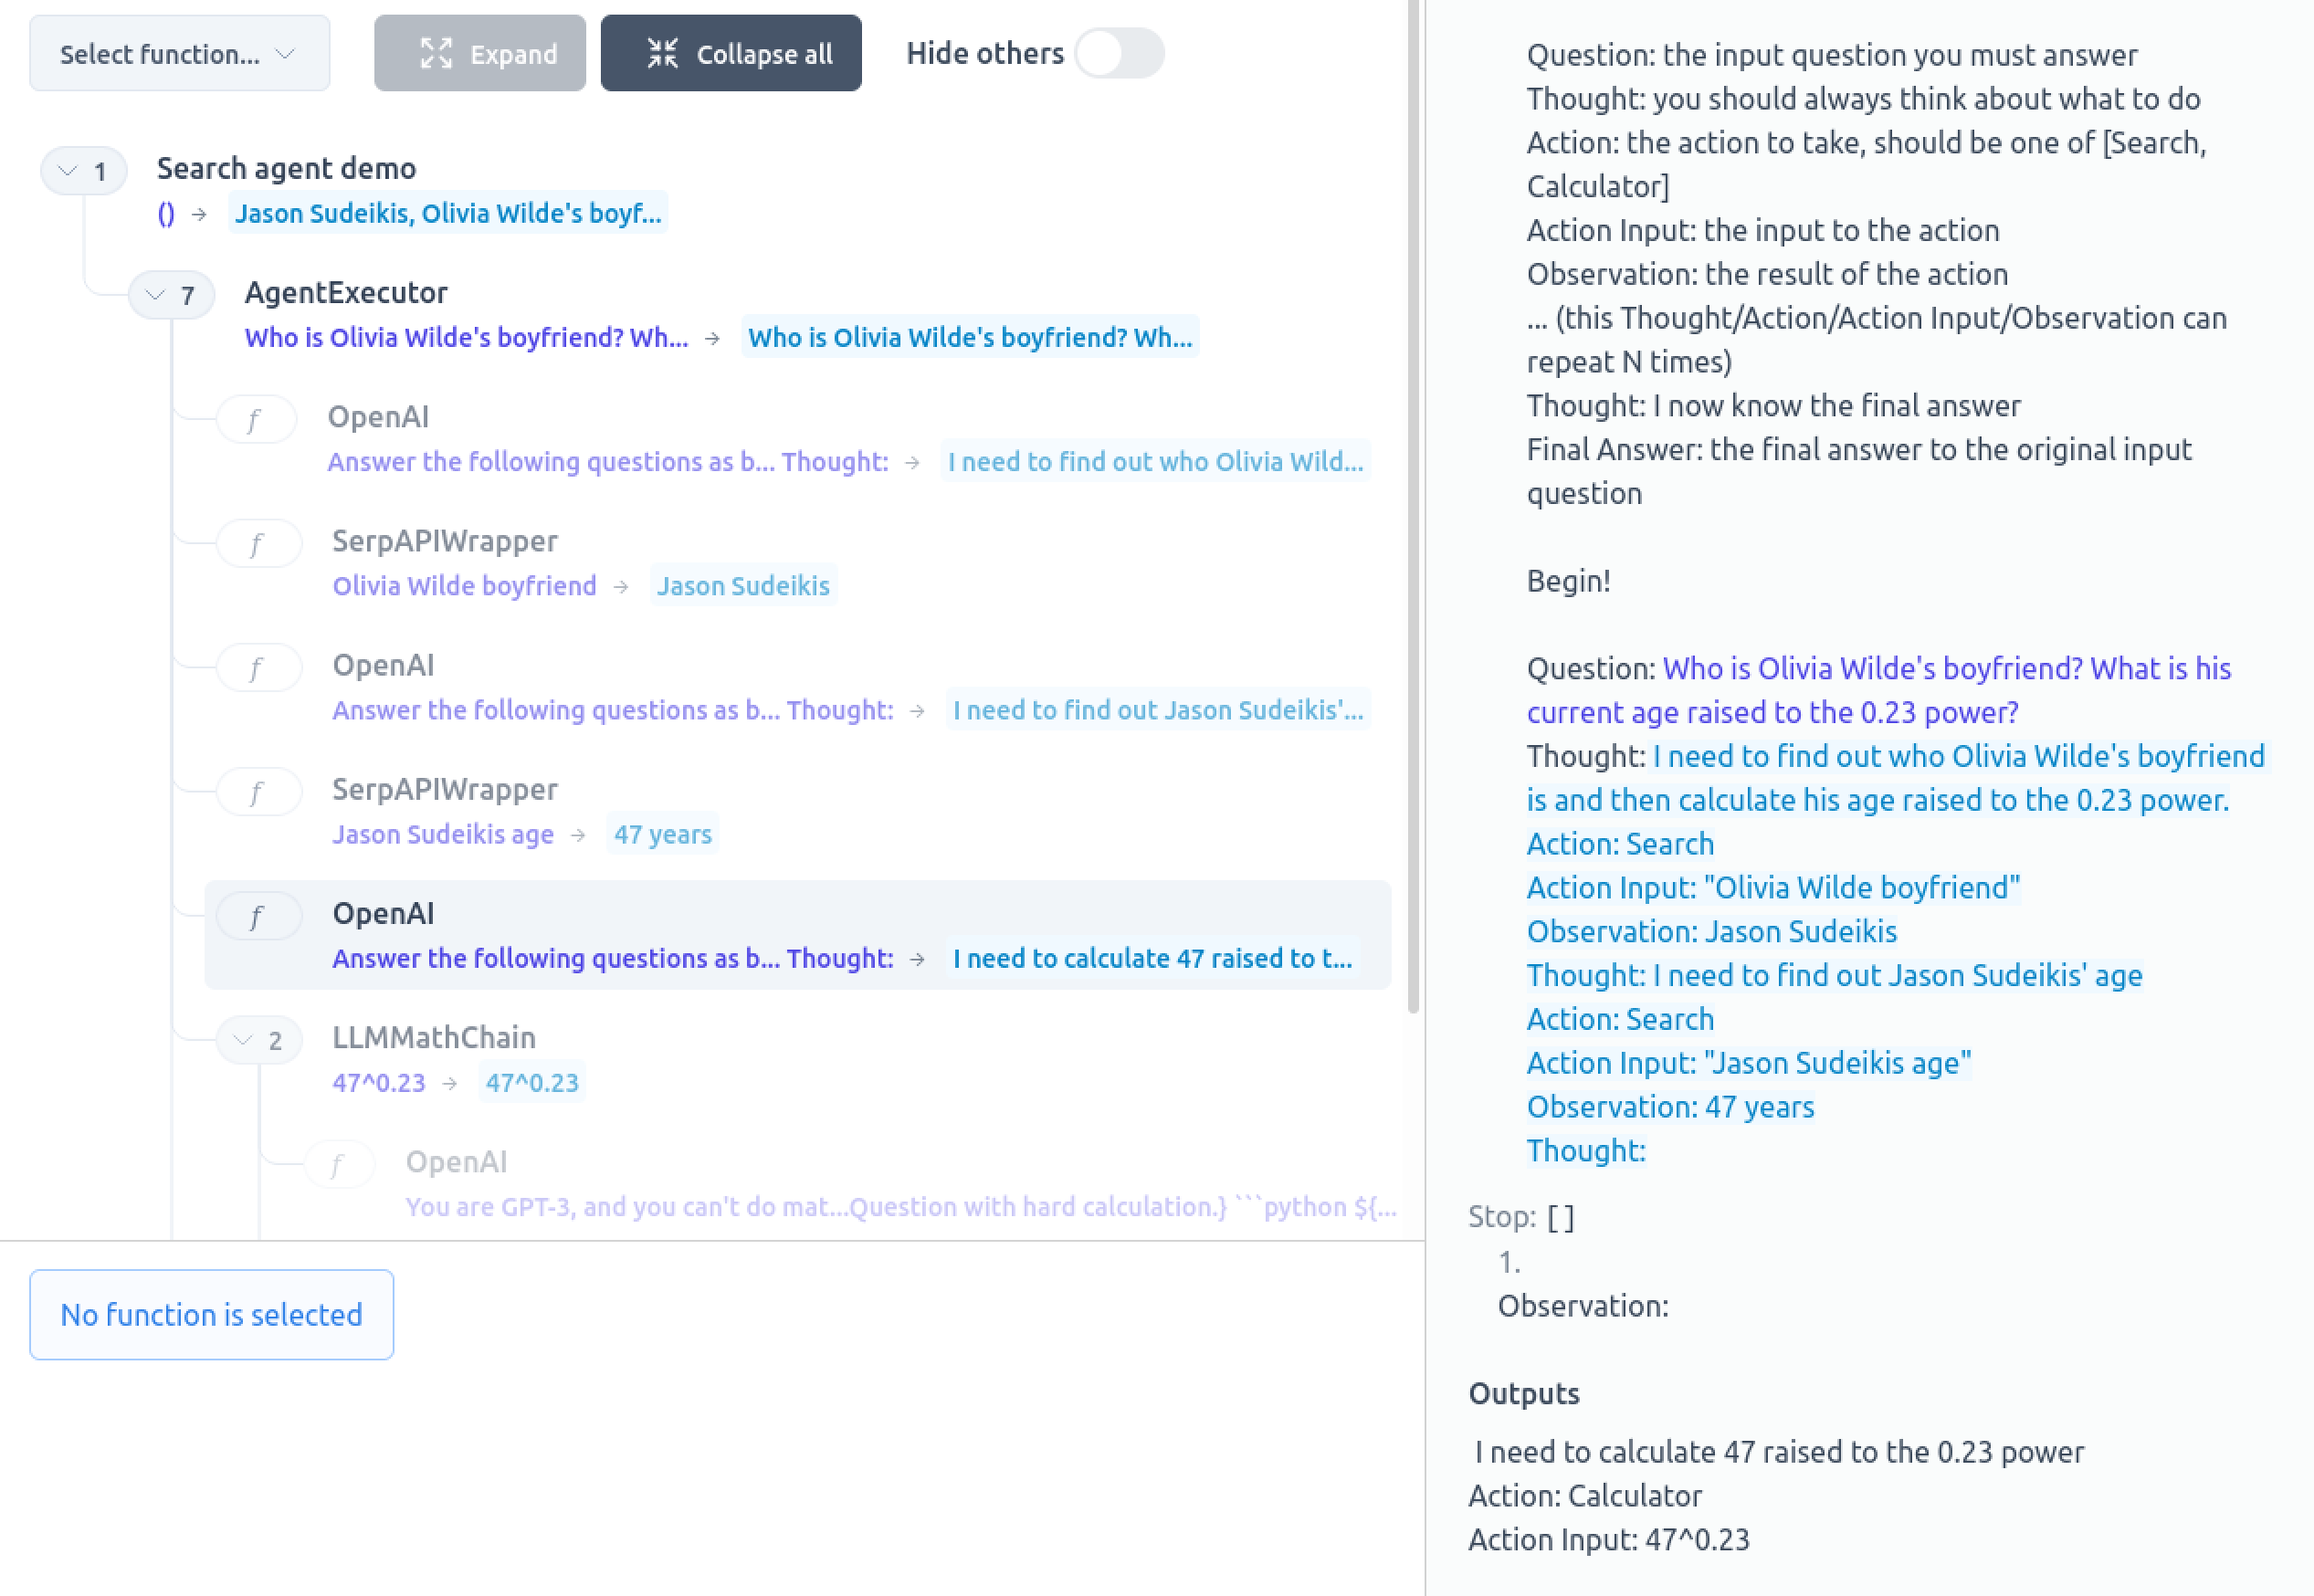
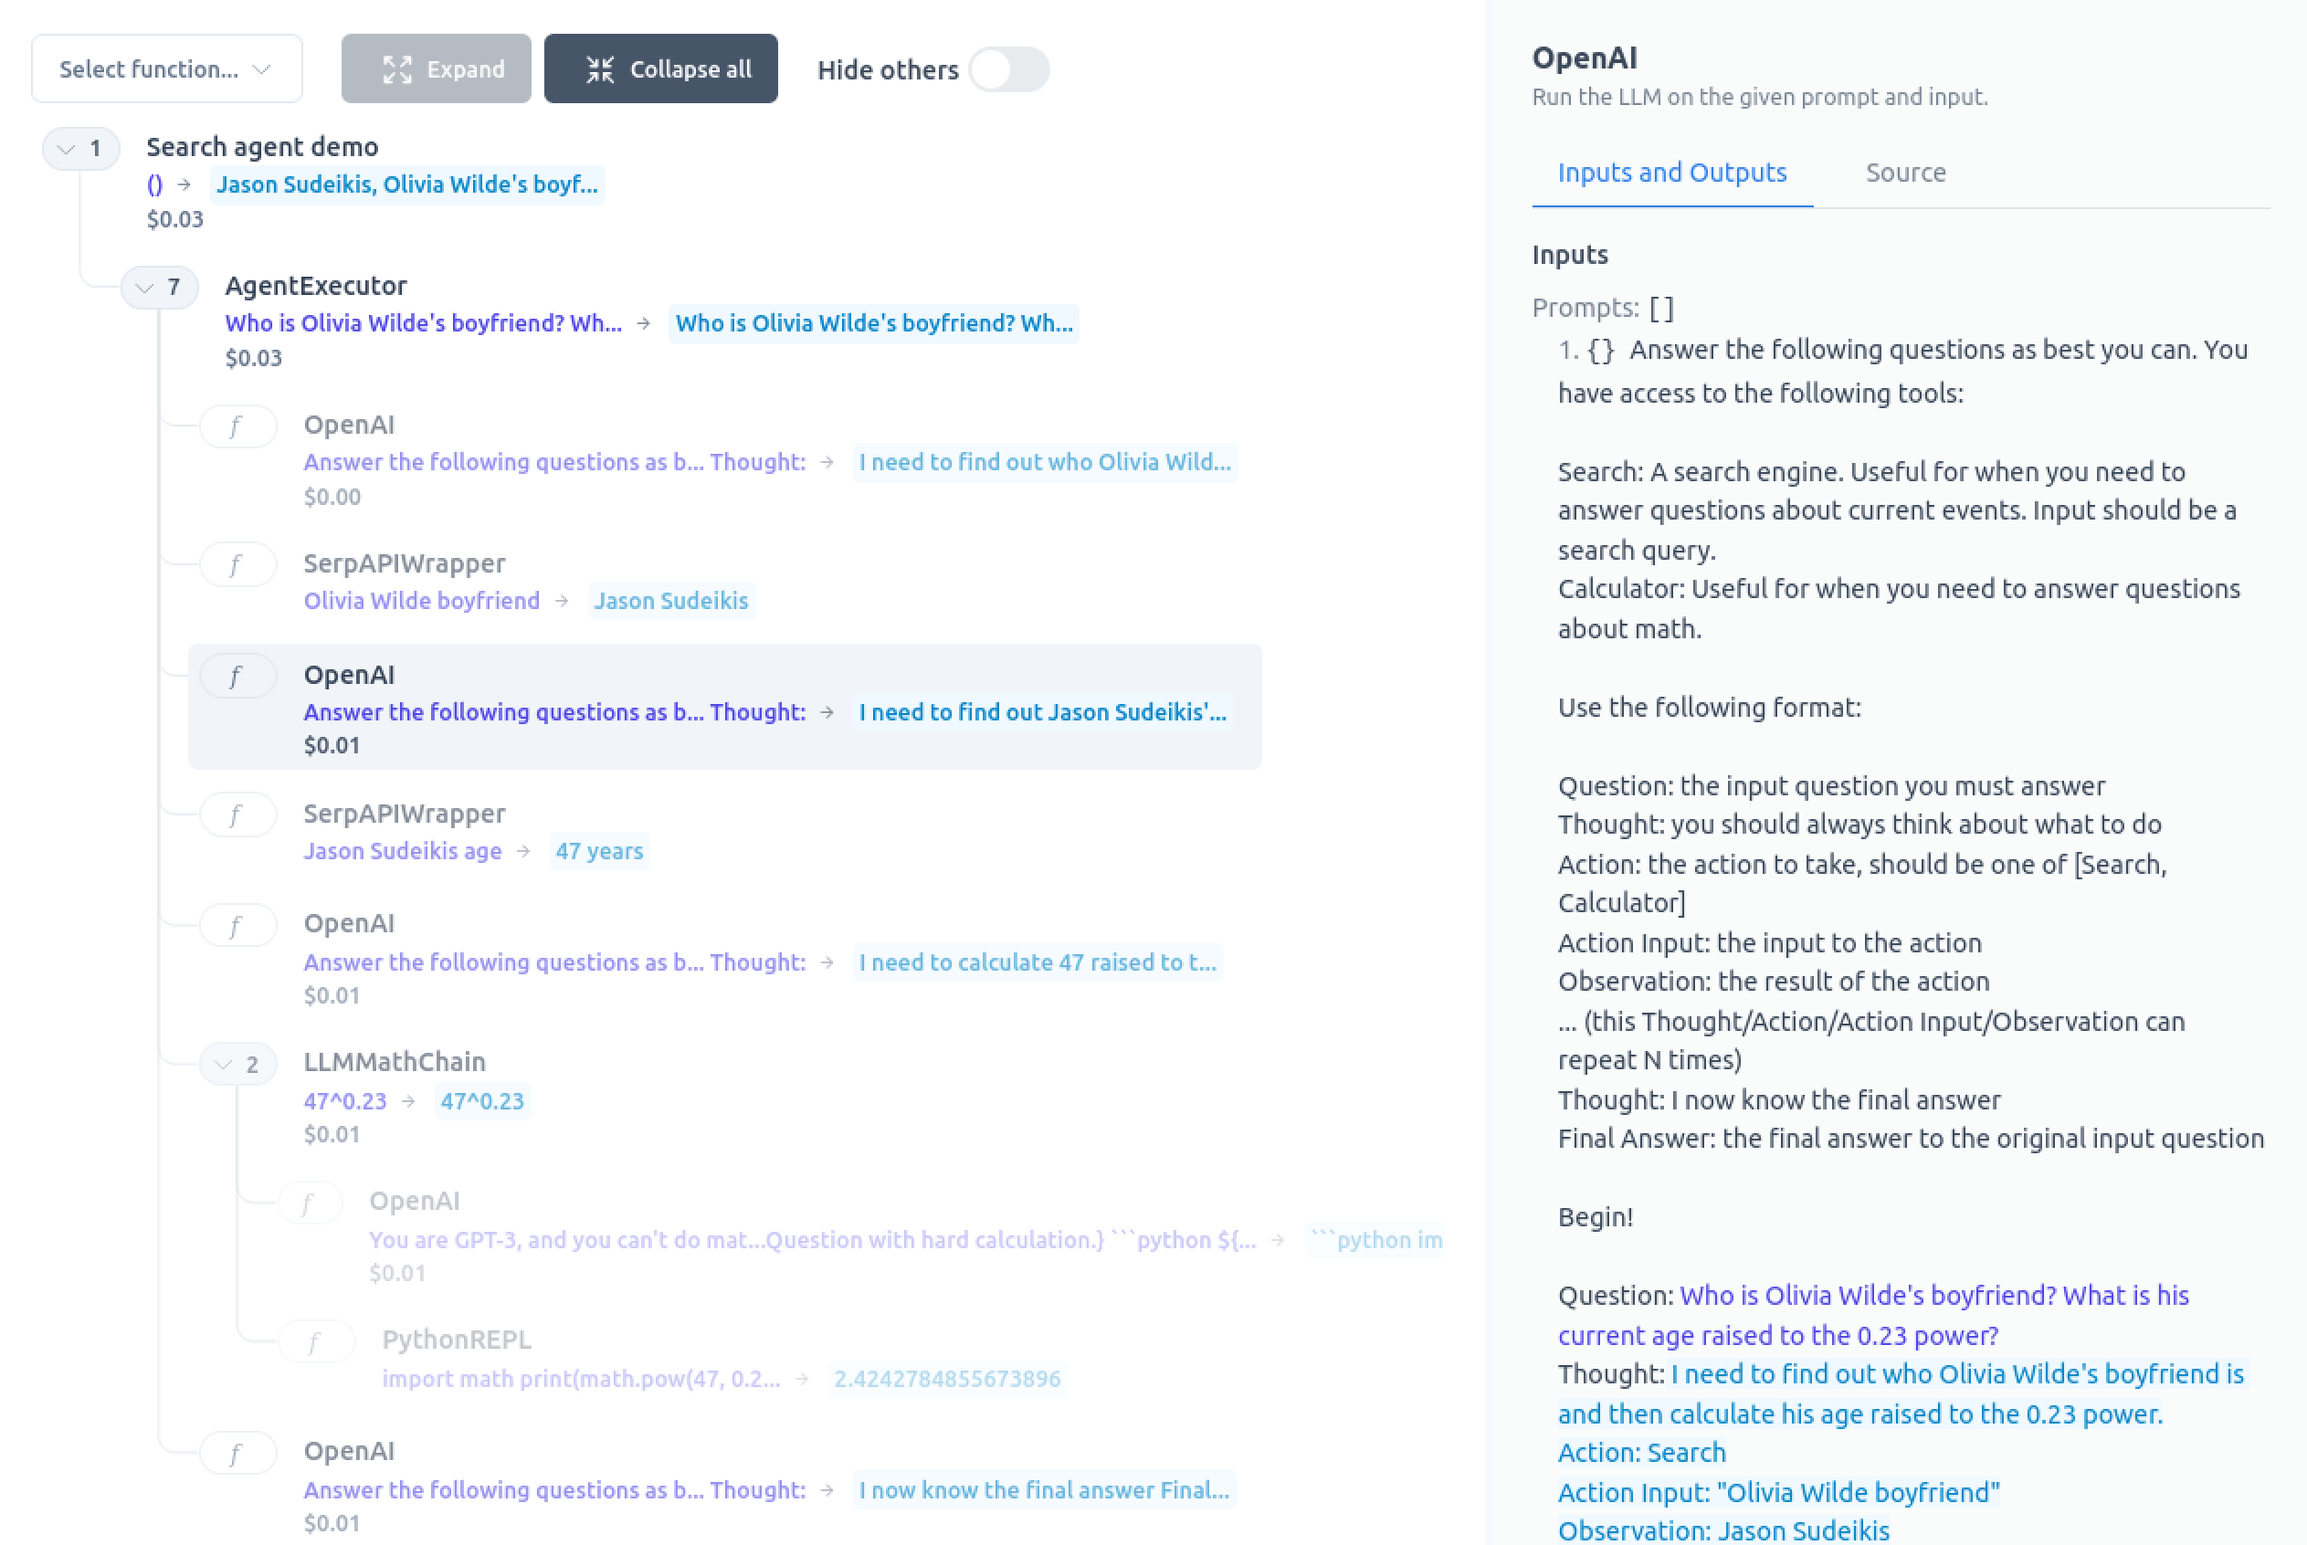
Visualize costs for davinci

diff --git a/langchain_visualizer/hijacking.py b/langchain_visualizer/hijacking.py
@@ -18,7 +18,7 @@ class VisualizationWrapper(TracedABC):
         return self.og_fn(self.og_obj, *args, **kwargs)
 
 
-def get_viz_wrapper(og_self, og_fn_name: str):
+def get_viz_wrapper(viz_cls, og_self, og_fn_name: str):
     vcr_key = VCR_VIZ_INTEROP_PREFIX + og_fn_name
     if hasattr(og_self.__class__, vcr_key):
         # if vcr-langchain is here as well, call them so that caching can
@@ -28,13 +28,13 @@ def get_viz_wrapper(og_self, og_fn_name: str):
         og_fn = gorilla.get_original_attribute(
             og_self.__class__, og_fn_name, LANGCHAIN_VISUALIZER_PATCH_ID
         )
-    return VisualizationWrapper(og_self, og_fn=og_fn)
+    return viz_cls(og_self, og_fn=og_fn)
 
 
-def get_overridden_call(og_method_name):
+def get_overridden_call(viz_cls, og_method_name):
     def overridden_call(og_self, *args, **kwargs):
         """Preserve sync nature of OG call method"""
-        ice_agent = get_viz_wrapper(og_self, og_method_name)
+        ice_agent = get_viz_wrapper(viz_cls, og_self, og_method_name)
         if (
             not hasattr(og_self.__class__, "_should_trace")
             or og_self.__class__._should_trace
@@ -55,12 +55,12 @@ def hijack(cls, fn_name, get_replacement):
     setattr(cls, fn_name, replacement)
 
 
-def ice_hijack(cls, og_method_name):
+def ice_hijack(cls, og_method_name, viz_cls=VisualizationWrapper):
     gorilla.apply(
         gorilla.Patch(
             destination=cls,
             name=og_method_name,
-            obj=get_overridden_call(og_method_name),
+            obj=get_overridden_call(viz_cls, og_method_name),
             settings=gorilla.Settings(store_hit=True, allow_hit=True),
         ),
         id=LANGCHAIN_VISUALIZER_PATCH_ID,

diff --git a/langchain_visualizer/llms/base.py b/langchain_visualizer/llms/base.py
@@ -1,26 +1,28 @@
-import asyncio
 from typing import List, Optional
 
+from ice.trace import add_fields
 from langchain.llms.base import BaseLLM
+from langchain.llms.openai import OpenAI
 from langchain.schema import LLMResult
 
-from langchain_visualizer.hijacking import ice_hijack
+from langchain_visualizer.hijacking import VisualizationWrapper, ice_hijack
 
 
-def overridden_generate(
-    self, prompts: List[str], stop: Optional[List[str]] = None
-) -> LLMResult:
-    """Preserve langchain's sync generate method"""
-    ice_agent = self.get_ice_agent()
-    generations = []
-    llm_output = {}
-    for prompt in prompts:
-        llm_result = asyncio.get_event_loop().run_until_complete(
-            ice_agent.generate(prompt=prompt, stop=stop)
-        )
-        generations.extend(llm_result.generations)
-        llm_output.update(llm_result.llm_output)
-    return LLMResult(generations, llm_output)
+class LlmVisualizer(VisualizationWrapper):
+    async def run(
+        self, prompts: List[str], stop: Optional[List[str]] = None
+    ) -> LLMResult:
+        """Run the LLM on the given prompt and input."""
+        result = self.og_fn(self.og_obj, prompts=prompts, stop=stop)
+        if (
+            isinstance(self.og_obj, OpenAI)
+            and self.og_obj.model_name == "text-davinci-003"
+        ):
+            total_tokens = result.llm_output.get("token_usage", {}).get(
+                "total_tokens", 0
+            )
+            add_fields(davinci_equivalent_tokens=total_tokens)
+        return result
 
 
-ice_hijack(BaseLLM, "generate")
+ice_hijack(BaseLLM, "generate", LlmVisualizer)

diff --git a/tests/llms/test_langchain_getting_started.py b/tests/llms/test_langchain_getting_started.py
@@ -8,7 +8,7 @@ from langchain.llms import OpenAI
 # https://langchain.readthedocs.io/en/latest/modules/prompts/getting_started.html
 
 
-llm = OpenAI(model_name="text-ada-001", n=2, best_of=2, temperature=0)
+llm = OpenAI(model_name="text-davinci-003", n=2, best_of=2, temperature=1)
 
 # ================================== Execute example ==================================
 

diff --git a/README.md b/README.md
@@ -9,6 +9,7 @@ You can now
 - See the full prompt text being sent with every interaction with the LLM
 - Tell from the coloring which parts of the prompt are hardcoded and which parts are templated substitutions
 - Inspect the execution flow and observe when each function goes up the stack
+- See the costs of each LLM call, and of the entire run, if you are using OpenAI's `text-davinci-003` model
 
 ## Quickstart
 
